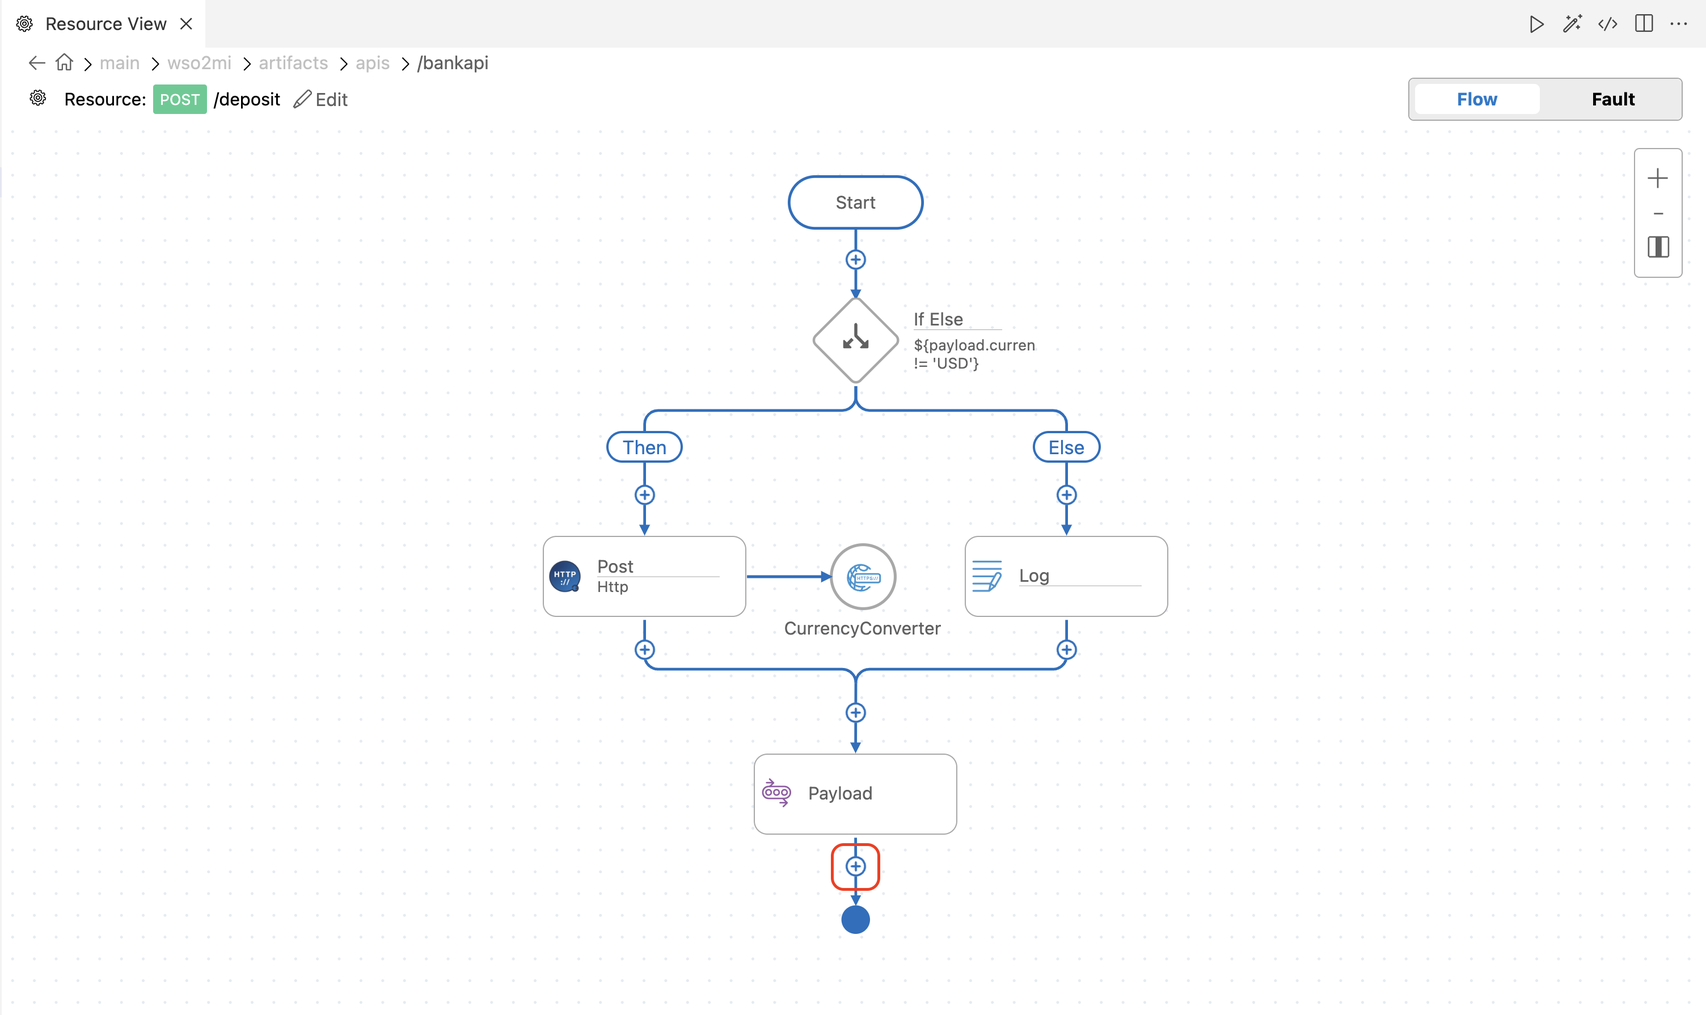
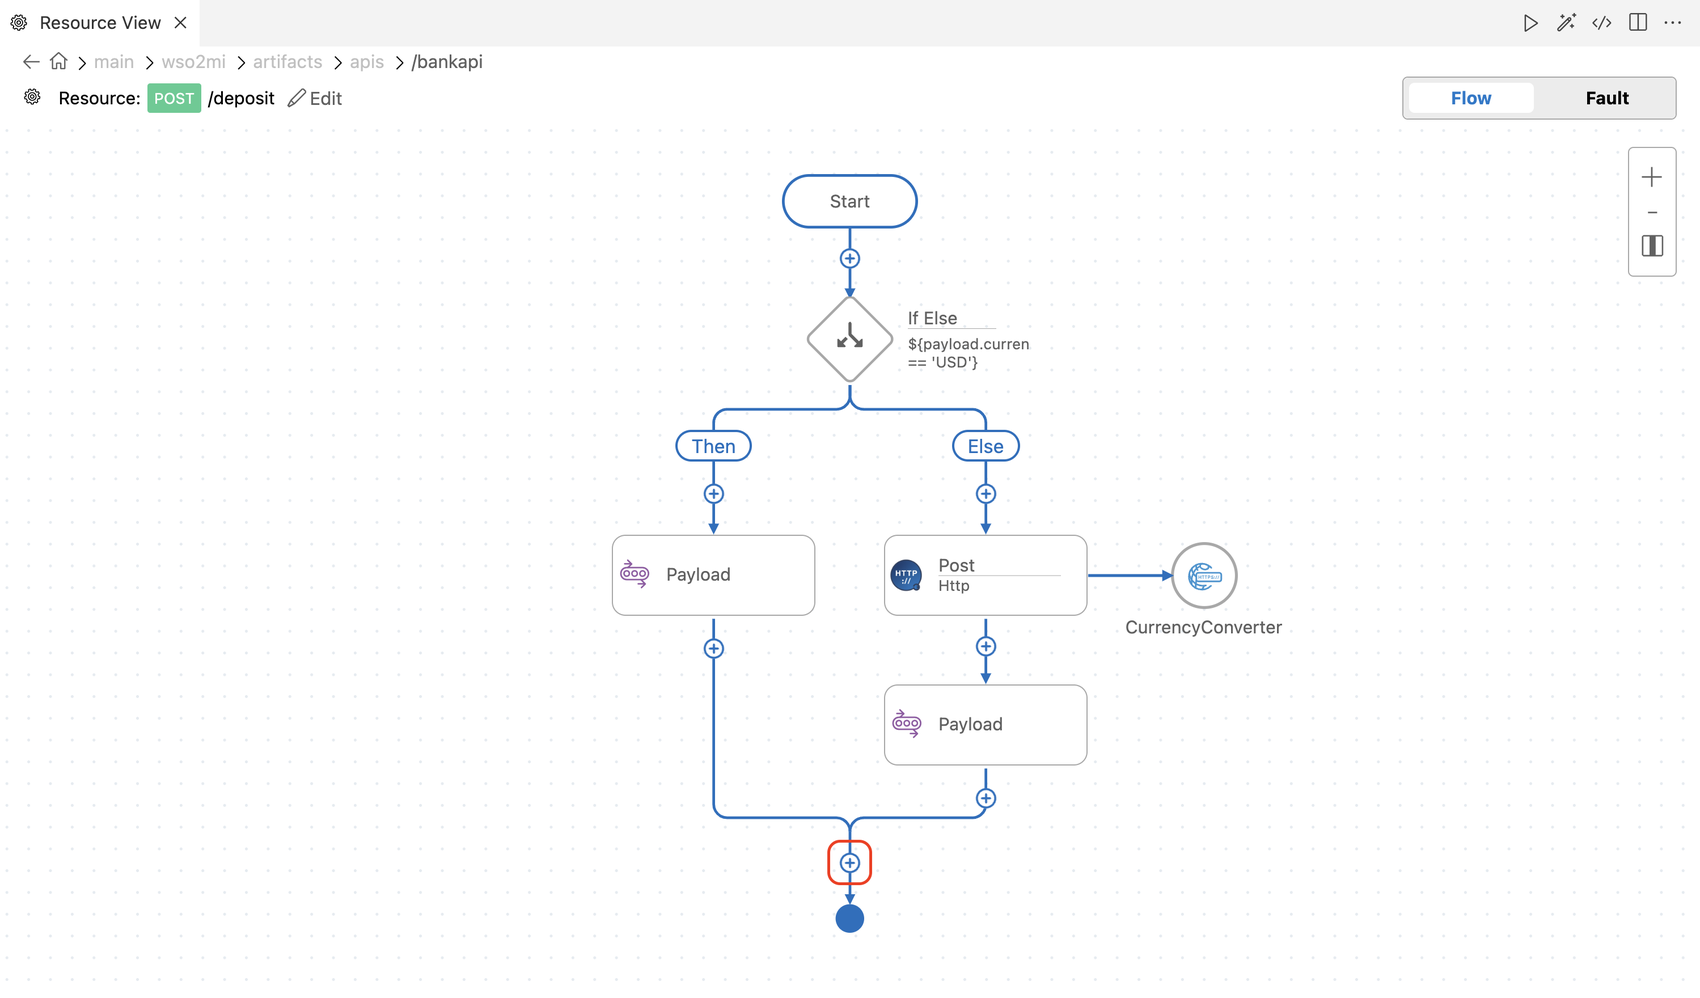
Update guide

diff --git a/en/docs/assets/css/mitheme.css b/en/docs/assets/css/mitheme.css
@@ -409,7 +409,7 @@ header>.md-grid {
     vertical-align: middle;
     outline: none !important;
     box-shadow: none !important;
-    max-height: 30px;
+    max-height: 28px;
 }
 
 /* Target only "Build your first integration" list */

diff --git a/en/docs/get-started/build-first-integration/first-integration-route-and-transform.md b/en/docs/get-started/build-first-integration/first-integration-route-and-transform.md
@@ -24,7 +24,7 @@ Follow the instructions below to modify the API service to call an HTTP endpoint
 
 Let's consider a scenario where a client sends a request to the `Bank` API deployed in WSO2 Micro Integrator. The API checks the currency type, and if it is not `USD`, it invokes a currency converter service to convert the amount. It then responds to the client with the updated, converted value.
 
-<a href="{{base_path}}/assets/img/integrate/quick-start-guide/mi-quick-start-guide.gif"><img src="{{base_path}}/assets/img/integrate/quick-start-guide/mi-quick-start-guide.gif"></a>
+<a href="{{base_path}}/assets/img/get-started/build-first-integration/what_you_will_build_route.png"><img src="{{base_path}}/assets/img/get-started/build-first-integration/what_you_will_build_route.png" alt="Create New Project" width="60%"></a>
 
 ## Step 1 - Create a new API resource
 
@@ -38,11 +38,11 @@ To develop the above scenario, let's get started with creating a new API resourc
 
     <a href="{{base_path}}/assets/img/get-started/build-first-integration/add_resource_btn.png"><img src="{{base_path}}/assets/img/get-started/build-first-integration/add_resource_btn.png" alt="Create New Project" width="80%"></a>
 
-4. In the **Add API Resource** pane, set `/deposit` as the **Resource Path** and select the `POST` method.
+3. In the **Add API Resource** pane, set `/deposit` as the **Resource Path** and select the `POST` method.
 
     <a href="{{base_path}}/assets/img/get-started/build-first-integration/add_api_resource_pane.png"><img src="{{base_path}}/assets/img/get-started/build-first-integration/add_api_resource_pane.png" alt="Create New Project" width="80%"></a>
 
-5. Finally, click **Create** to add the new API resource.
+4. Finally, click **Create** to add the new API resource.
 
 ## Step 2 - Design the integration
 
@@ -167,6 +167,9 @@ Now, it's time to design the bank deposit flow. Follow the steps below to create
 
 19. Provide `/currency-converter` as the **Relative Path**, and click **Submit** to insert the operation to the integration flow.
 
+    !!! Note  
+        Since the user sent request payload matches the expected format of the `CurrencyConverter` service, we can use the payload as-is in the request body of the HTTP POST operation.
+
     <a href="{{base_path}}/assets/img/get-started/build-first-integration/add_http_post.png"><img src="{{base_path}}/assets/img/get-started/build-first-integration/add_http_post.png" alt="geo http request" width="30%"></a>
 
     !!! Tip
@@ -179,25 +182,24 @@ Now, it's time to design the bank deposit flow. Follow the steps below to create
         2. Once the data is loaded, click **Run** to execute the flow through this mediator and review the output. Expand the **Payload** section to view the JSON payload defined in step 12.<br>
             <a href="{{base_path}}/assets/img/get-started/build-first-integration/tryout_payload.gif"><img src="{{base_path}}/assets/img/get-started/build-first-integration/tryout_payload.gif" alt="Create New Project" width="30%"></a>
 
-        3. You can also use this feature to check the output of HTTP calls. In the canvas, click on the **HTTP POST** operation to open the **Edit** pane, then select the **Tryout** tab.<br>
+        3. You can also use this feature to check the output of HTTP connector. In the canvas, click on the **HTTP POST** operation to open the **Edit** pane, then select the **Tryout** tab.<br>
+            <a href="{{base_path}}/assets/img/get-started/build-first-integration/click_http_post.png"><img src="{{base_path}}/assets/img/get-started/build-first-integration/click_http_post.png" alt="create connection" width="80%"></a>
 
         4. Once the data is loaded, change the request to `sample2` under **Select a request to try out**, then click **Run** to execute the `else` branch, which contains the backend service invocation. Expand the **Payload** section to view the JSON response from the currency converter service.<br>
-            <a href="{{base_path}}/assets/img/get-started/build-first-integration/tryout_payload.gif"><img src="{{base_path}}/assets/img/get-started/build-first-integration/tryout_payload.gif" alt="Create New Project" width="30%"></a>
+            <a href="{{base_path}}/assets/img/get-started/build-first-integration/tryout_http.gif"><img src="{{base_path}}/assets/img/get-started/build-first-integration/tryout_http.gif" alt="Create New Project" width="30%"></a>
 
 
     Now that we have the currency amount in USD, let's send a response to the client, mentioning the amount deposited into the bank account.
 
 20. Click on the **+** icon just after the **HTTP POST** operation to open the **Mediator Palette**.
 
-    <a href="{{base_path}}/assets/img/get-started/build-first-integration/add_mediator_after_if.png"><img src="{{base_path}}/assets/img/get-started/build-first-integration/add_mediator_after_if.png" alt="Create New Project" width="80%"></a>
+    <a href="{{base_path}}/assets/img/get-started/build-first-integration/add_mediator_after_http.png"><img src="{{base_path}}/assets/img/get-started/build-first-integration/add_mediator_after_http.png" alt="Create New Project" width="80%"></a>
 
 21. Select **Payload** mediator under **Mediators**.
 
-    <a href="{{base_path}}/assets/img/get-started/build-first-integration/select_payload_mediator_transform.png"><img src="{{base_path}}/assets/img/get-started/build-first-integration/select_payload_mediator_transform.png" alt="Create New Project" width="80%"></a>
+22. In the **Payload** box, enter the following template to create a new payload using the converted value, then click **Add** to insert the **Payload** mediator into the integration flow.
 
-22. In the **Payload** box, enter the following template to create a new payload using the converted value.
-
-    !!! Note
+    !!! Info
         The `Currency Converter` service returns a JSON object with the exchange rate and the converted amount, where `convertedValue` holds the final result. This template uses that value to generate the response payload.
 
     ```json
@@ -206,6 +208,8 @@ Now, it's time to design the bank deposit flow. Follow the steps below to create
         "amountDeposited": ${payload.convertedValue}
     }
     ```
+
+    <a href="{{base_path}}/assets/img/get-started/build-first-integration/payload_transform_after_http.png"><img src="{{base_path}}/assets/img/get-started/build-first-integration/payload_transform_after_http.png" alt="Create New Project" width="30%"></a>
 
 23. Click on the **+** icon placed just after the **If Else** mediator to open the **Mediator Palette** to add a [Respond Mediator]({{base_path}}/reference/mediators/respond-mediator) to respond the message to the client.
 
@@ -242,8 +246,17 @@ You may refer to the following API and HTTP connection for reference,
             </resource>
             <resource methods="POST" uri-template="/deposit">
                 <inSequence>
-                    <filter xpath="${payload.currency != 'USD'}">
+                    <filter xpath="${payload.currency == 'USD'}">
                         <then>
+                            <payloadFactory media-type="json" template-type="default">
+                                <format>{
+                                    "status": "successful",
+                                    "amountDeposited": ${payload.amount}
+                                    }
+                                </format>
+                            </payloadFactory>
+                        </then>
+                        <else>
                             <http.post configKey="CurrencyConverter">
                                 <relativePath>/currency-converter</relativePath>
                                 <headers>[]</headers>
@@ -257,19 +270,15 @@ You may refer to the following API and HTTP connection for reference,
                                 <responseVariable>http_post_1</responseVariable>
                                 <overwriteBody>true</overwriteBody>
                             </http.post>
-                        </then>
-                        <else>
-                            <log category="INFO" logMessageID="false" logFullPayload="false">
-                                <message>No currency conversion is required.</message>
-                            </log>
+                            <payloadFactory media-type="json" template-type="default">
+                                <format>{
+                                    "status": "successful",
+                                    "amountDeposited": ${payload.convertedValue}
+                                    }
+                                </format>
+                            </payloadFactory>
                         </else>
                     </filter>
-                    <payloadFactory media-type="json" template-type="default">
-                        <format>{
-                            "status": "successful",
-                            "amountDeposited": ${payload.amount}
-                            }</format>
-                    </payloadFactory>
                     <respond/>
                 </inSequence>
                 <faultSequence>
@@ -284,23 +293,23 @@ You may refer to the following API and HTTP connection for reference,
         You can view the source view by clicking on the **Show Source** (`</>`) icon located in the top right corner of the VS Code.
 
     === "Design View"
-        <a href="{{base_path}}/assets/img/get-started/how-to-guides/ai-data-mapping/ai-data-mapping-http-connection.png"><img src="{{base_path}}/assets/img/get-started/how-to-guides/ai-data-mapping/ai-data-mapping-http-connection.png" alt="http connection config" width="40%"></a>
+        <a href="{{base_path}}/assets/img/get-started/build-first-integration/currency_http_connection.png"><img src="{{base_path}}/assets/img/get-started/build-first-integration/currency_http_connection.png" alt="http connection config" width="40%"></a>
         
     === "Source View"
         ```yaml
         <?xml version="1.0" encoding="UTF-8"?>
-        <localEntry key="OpenWeather" xmlns="http://ws.apache.org/ns/synapse">
-            <http.init>
-                <connectionType>HTTPS</connectionType>
-                <baseUrl>https://api.openweathermap.org/</baseUrl>
-                <authType>None</authType>
-                <timeoutAction>Never</timeoutAction>
-                <retryCount>0</retryCount>
-                <retryDelay>0</retryDelay>
-                <suspendInitialDuration>-1</suspendInitialDuration>
-                <suspendProgressionFactor>1</suspendProgressionFactor>
-                <name>OpenWeather</name>
-            </http.init>
+        <localEntry key="CurrencyConverter" xmlns="http://ws.apache.org/ns/synapse">
+        <http.init>
+            <connectionType>HTTPS</connectionType>
+            <baseUrl>https://apis.wso2.com/zvdz/mi-qsg/v1.0</baseUrl>
+            <authType>None</authType>
+            <timeoutAction>Never</timeoutAction>
+            <retryCount>0</retryCount>
+            <retryDelay>0</retryDelay>
+            <suspendInitialDuration>-1</suspendInitialDuration>
+            <suspendProgressionFactor>1</suspendProgressionFactor>
+            <name>CurrencyConverter</name>
+        </http.init>
         </localEntry>
         ```
 
@@ -310,15 +319,17 @@ Now that you have updated the integration, it's time to deploy the integration t
 
 Click the **Build and Run** icon located in the top right corner of VS Code.
 
-<a href="{{base_path}}/assets/img/develop/mi-for-vscode/qsg/build-and-run-project.png"><img src="{{base_path}}/assets/img/develop/mi-for-vscode/qsg/build-and-run-project.png" alt="Build and run" width="80%"></a>
+<a href="{{base_path}}/assets/img/get-started/build-first-integration/build_and_run_btn_deposit.png"><img src="{{base_path}}/assets/img/get-started/build-first-integration/build_and_run_btn_deposit.png" alt="Create New Project" width="80%"></a>
 
 ## Step 5 - Test the integration service
 
 1. Once the **Runtime Services** interface is open, select the `BankAPI`, and click the **Try It** button.
 
+    <a href="{{base_path}}/assets/img/get-started/build-first-integration/swagger_select_bank_api_deposit.png"><img src="{{base_path}}/assets/img/get-started/build-first-integration/swagger_select_bank_api_deposit.png" alt="Create New Project" width="80%"></a>
+
 2. Select the `/deposit` resource and click **Try it Out** to test the API.
 
-    <a href="{{base_path}}/assets/img/get-started/how-to-guides/ai-code-gen/ai-code-gen-op-try.png"><img src="{{base_path}}/assets/img/get-started/how-to-guides/ai-code-gen/ai-code-gen-op-try.png" alt="try out operation" width="80%"></a>
+    <a href="{{base_path}}/assets/img/get-started/build-first-integration/swagger_select_deposit_resource.png"><img src="{{base_path}}/assets/img/get-started/build-first-integration/swagger_select_deposit_resource.png" alt="Create New Project" width="80%"></a>
 
 3. Provide a JSON payload and click the **Execute** button to invoke the API. You may use the following sample payloads to test the API.
 
@@ -340,13 +351,9 @@ Click the **Build and Run** icon located in the top right corner of VS Code.
     }
     ```
 
-    <a href="{{base_path}}/assets/img/get-started/how-to-guides/ai-code-gen/ai-code-gen-swagger-exec.png"><img src="{{base_path}}/assets/img/get-started/how-to-guides/ai-code-gen/ai-code-gen-swagger-exec.png" alt="execute request" width="80%"></a>
+    <a href="{{base_path}}/assets/img/get-started/build-first-integration/swagger_execute_deposit.png"><img src="{{base_path}}/assets/img/get-started/build-first-integration/swagger_execute_deposit.png" alt="Create New Project" width="80%"></a>
 
 4. Check the response received from the server and verify that the currency conversion has been applied correctly.
-
-<a href="{{base_path}}/assets/img/develop/mi-for-vscode/qsg/test-api.gif">
-<img src="{{base_path}}/assets/img/develop/mi-for-vscode/qsg/test-api.gif" alt="Test API" style="display: block; max-width: 80%; margin: 0 auto;">
-</a>
 
 Congratulations!
 You have now learned how to create an API resource, use the HTTP connector, work with expressions, and test mediators using Mediator TryOut.
@@ -365,13 +372,14 @@ Click on the **Next** button below to continue to the next tutorial.
 {% raw %}
 <style>
 .language-bash {
-    color: rgb(67, 163, 189) !important;
+    color: var(--md-feedback-button-color) !important;
 }
 .language-bash .hljs-string {
-    color: rgb(100, 100, 100) !important;
+    color: var(--md-feedback-button-color) !important;
 }
 .language-bash .hljs-variable {
-    color: rgb(255, 112, 67) !important;
+    font-weight: 600;
+    color: rgb(45, 116, 215) !important;
 }
 </style>
 {% endraw %}

diff --git a/en/docs/get-started/build-first-integration/first-integration-connect-saas.md b/en/docs/get-started/build-first-integration/first-integration-connect-saas.md
@@ -1,6 +1,6 @@
 # Connect to SaaS or B2B Systems
 
-In the previous tutorial, you learned how to route and transform messages, deploy, and test integrations in WSO2 MI. Now, let's enhance the existing deposit flow by adding an email notification feature.
+In the previous tutorial, you learned how to route and transform messages, deploy, and test integrations in WSO2 Micro Integrator (MI). In this tutorial, you’ll learn how to create a loan review email notification flow that sends an email based on the client's loan status.
 
 ## Prerequisites
 
@@ -9,9 +9,9 @@ In the previous tutorial, you learned how to route and transform messages, deplo
     !!! Info
         See the [Install Micro Integrator for VS Code]({{base_path}}/develop/mi-for-vscode/install-wso2-mi-for-vscode/) documentation to learn how to install Micro Integrator for VS Code.
 
-2. You must have completed the **Route and Transform messages** tutorial under **Build your first integration** before proceeding. Start the [Route and Transform messages]() tutorial if you haven’t completed it yet.
+2. You must have completed the **Route and Transform messages** tutorial under **Build your first integration** before proceeding. Start the [Route and Transform messages]({{base_path}}/get-started/build-first-integration/first-integration-route-and-transform/) tutorial if you haven’t completed it yet.
 
-Follow the instructions below to modify the API service so it sends an email to the client with the bank deposit status.
+Follow the instructions below to modify the API service so it sends an email to the client with the loan status.
 
 ## What you'll learn
 
@@ -19,15 +19,60 @@ Follow the instructions below to modify the API service so it sends an email to 
 
 ## What you'll build
 
-Let's consider a scenario where a client sends a request to the `Bank` API deployed in WSO2 Micro Integrator. After processing the request, the API sends an email notification to the client with the bank deposit status using a SaaS-based email service. In this example, we use <a target="_blank" href="https://developers.google.com/gmail/imap/imap-smtp">Gmail's SMTP service</a> as the email provider.
+Let's consider a scenario where a client sends a loan request to the `Bank` API deployed in WSO2 Micro Integrator. Upon receiving the request, the API sends an email notification to the client indicating that the loan request has been received and is under review. This is done using a SaaS-based email service.
 
-<a href="{{base_path}}/assets/img/integrate/quick-start-guide/mi-quick-start-guide.gif"><img src="{{base_path}}/assets/img/integrate/quick-start-guide/mi-quick-start-guide.gif"></a>
+In this example, we use <a target="_blank" href="https://developers.google.com/gmail/imap/imap-smtp">Gmail's SMTP service</a> as the email provider.
 
-## Step 1 - Design the integration
+<a href="{{base_path}}/assets/img/get-started/build-first-integration/what_you_will_build_saas.png"><img src="{{base_path}}/assets/img/get-started/build-first-integration/what_you_will_build_saas.png" alt="Create New Project" width="60%"></a>
 
-Now, it's time to design the email notification flow. Follow the steps below to create the email notification integration. Since we will be updating the integration from the [Route and Transform Messages]() tutorial, make sure you have it open in VS Code.
+Now, it's time to design the email notification flow. Follow the steps below to create the email notification integration.
 
-1. Click on the **+** icon just after the **Payload** mediator to open the **Mediator Palette**.
+## Step 1 - Create a new API resource
+
+To develop the above scenario, let's get started with creating a new API resource in the `Bank` API.
+
+1. Click on the Service Designer (<img src="{{base_path}}/assets/img/get-started/build-first-integration/service_designer_icon.png" alt="inline expression editor" class="inline-icon">) icon of the `Bank` API in the **Micro Integrator Project Explorer** to open the Service Designer.
+
+    <a href="{{base_path}}/assets/img/get-started/build-first-integration/service_designer_icon_bank_api_3.png"><img src="{{base_path}}/assets/img/get-started/build-first-integration/service_designer_icon_bank_api_3.png" alt="Create New Project" width="80%"></a>
+
+2. In the Service Designer, click the **+ Resource** button to add a new API resource.
+
+    <a href="{{base_path}}/assets/img/get-started/build-first-integration/add_resource_btn_3.png"><img src="{{base_path}}/assets/img/get-started/build-first-integration/add_resource_btn_3.png" alt="Create New Project" width="80%"></a>
+
+3. In the **Add API Resource** pane, set `/loan-review` as the **Resource Path** and select the `POST` method.
+
+    <a href="{{base_path}}/assets/img/get-started/build-first-integration/add_api_resource_pane_loan_review_post.png"><img src="{{base_path}}/assets/img/get-started/build-first-integration/add_api_resource_pane_loan_review_post.png" alt="Create New Project" width="80%"></a>
+
+4. Finally, click **Create** to add the new API resource.
+
+## Step 2 - Design the integration
+
+1. Open the **Resource View** of the newly created API resource by clicking the `POST /loan-review` resource under **Available resources** in the **Service Designer**.
+
+    <a href="{{base_path}}/assets/img/get-started/build-first-integration/select_loan_review_post_resource.png"><img src="{{base_path}}/assets/img/get-started/build-first-integration/select_loan_review_post_resource.png" alt="Create New Project" width="80%"></a>
+
+2. After opening the **Resource View**, click on the **Start** node on the canvas to set an input payload for the integration flow.
+
+    !!! Note
+        Setting an input payload for the integration flow is not mandatory. However, it is recommended, as it will be used to enable expression suggestions, which you will explore in later steps of this tutorial.
+
+    <a href="{{base_path}}/assets/img/get-started/build-first-integration/click_start_node_3.png"><img src="{{base_path}}/assets/img/get-started/build-first-integration/click_start_node_3.png" alt="Create New Project" width="80%"></a>
+
+3. TODO: Click **Add Request**, provide the following details, and then click **Add** and Finally, click **Save**.
+
+    | Name            | Request body                   |
+    |-----------------|--------------------------------|
+    | `sample1` | `{ "currency":"USD", "amount":100 }` |
+
+    <a href="{{base_path}}/assets/img/get-started/build-first-integration/add_start_payload.gif"><img src="{{base_path}}/assets/img/get-started/build-first-integration/add_start_payload.gif" alt="Create New Project" width="80%"></a>
+
+4. Click on the **+** icon on the canvas to open the **Mediator Palette**.
+
+    <a href="{{base_path}}/assets/img/get-started/build-first-integration/add_new_mediator_loan_review_1.png"><img src="{{base_path}}/assets/img/get-started/build-first-integration/add_new_mediator_loan_review_1.png" alt="Create New Project" width="80%"></a>
+
+5. Select **Variable** mediator under **Mediators**.
+
+5. Click on the **+** icon just after the **Payload** mediator to open the **Mediator Palette**.
 
 2. Search for `email` in the **Mediator Palette**, then click the download (<img src="{{base_path}}/assets/img/get-started/build-first-integration/connector_download_icon.png" alt="inline expression editor" class="inline-icon">) icon to add the [email connector]() to the project. In the confirmation pane, select **Yes** to add the required dependencies.
 

diff --git a/en/docs/get-started/build-first-integration/first-integration-api-service.md b/en/docs/get-started/build-first-integration/first-integration-api-service.md
@@ -21,7 +21,7 @@ Follow the instructions below to create your first API service.
 
 Let’s try a simple scenario where the client sends a request to the `Bank` API deployed in the WSO2 Micro Integrator and receives a `Welcome to O2 Bank !!` greeting response.
 
-<a href="{{base_path}}/assets/img/integrate/quick-start-guide/mi-quick-start-guide.gif"><img src="{{base_path}}/assets/img/integrate/quick-start-guide/mi-quick-start-guide.gif"></a>
+<a href="{{base_path}}/assets/img/get-started/build-first-integration/what_you_will_build_greeting.png"><img src="{{base_path}}/assets/img/get-started/build-first-integration/what_you_will_build_greeting.png" alt="Create New Project" width="40%"></a>
 
 ## Step 1 - Create a new integration project
 
